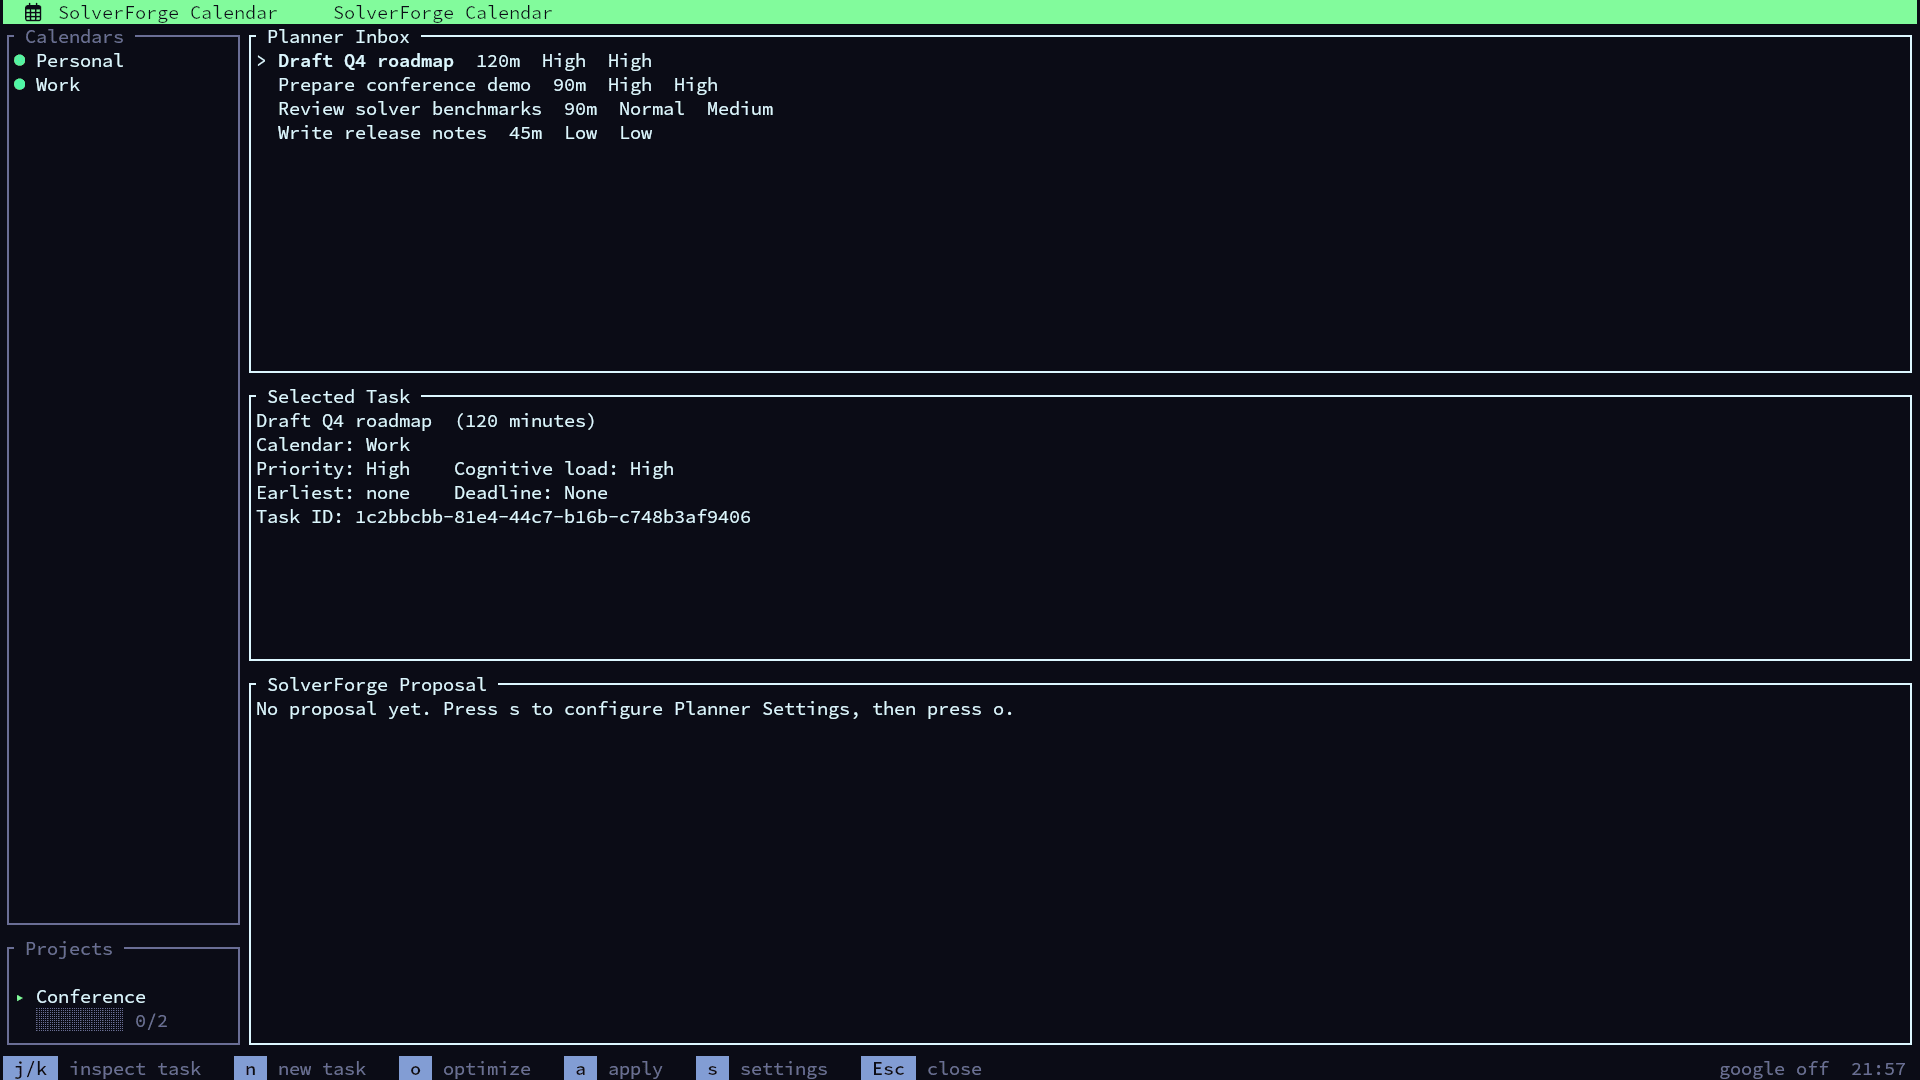
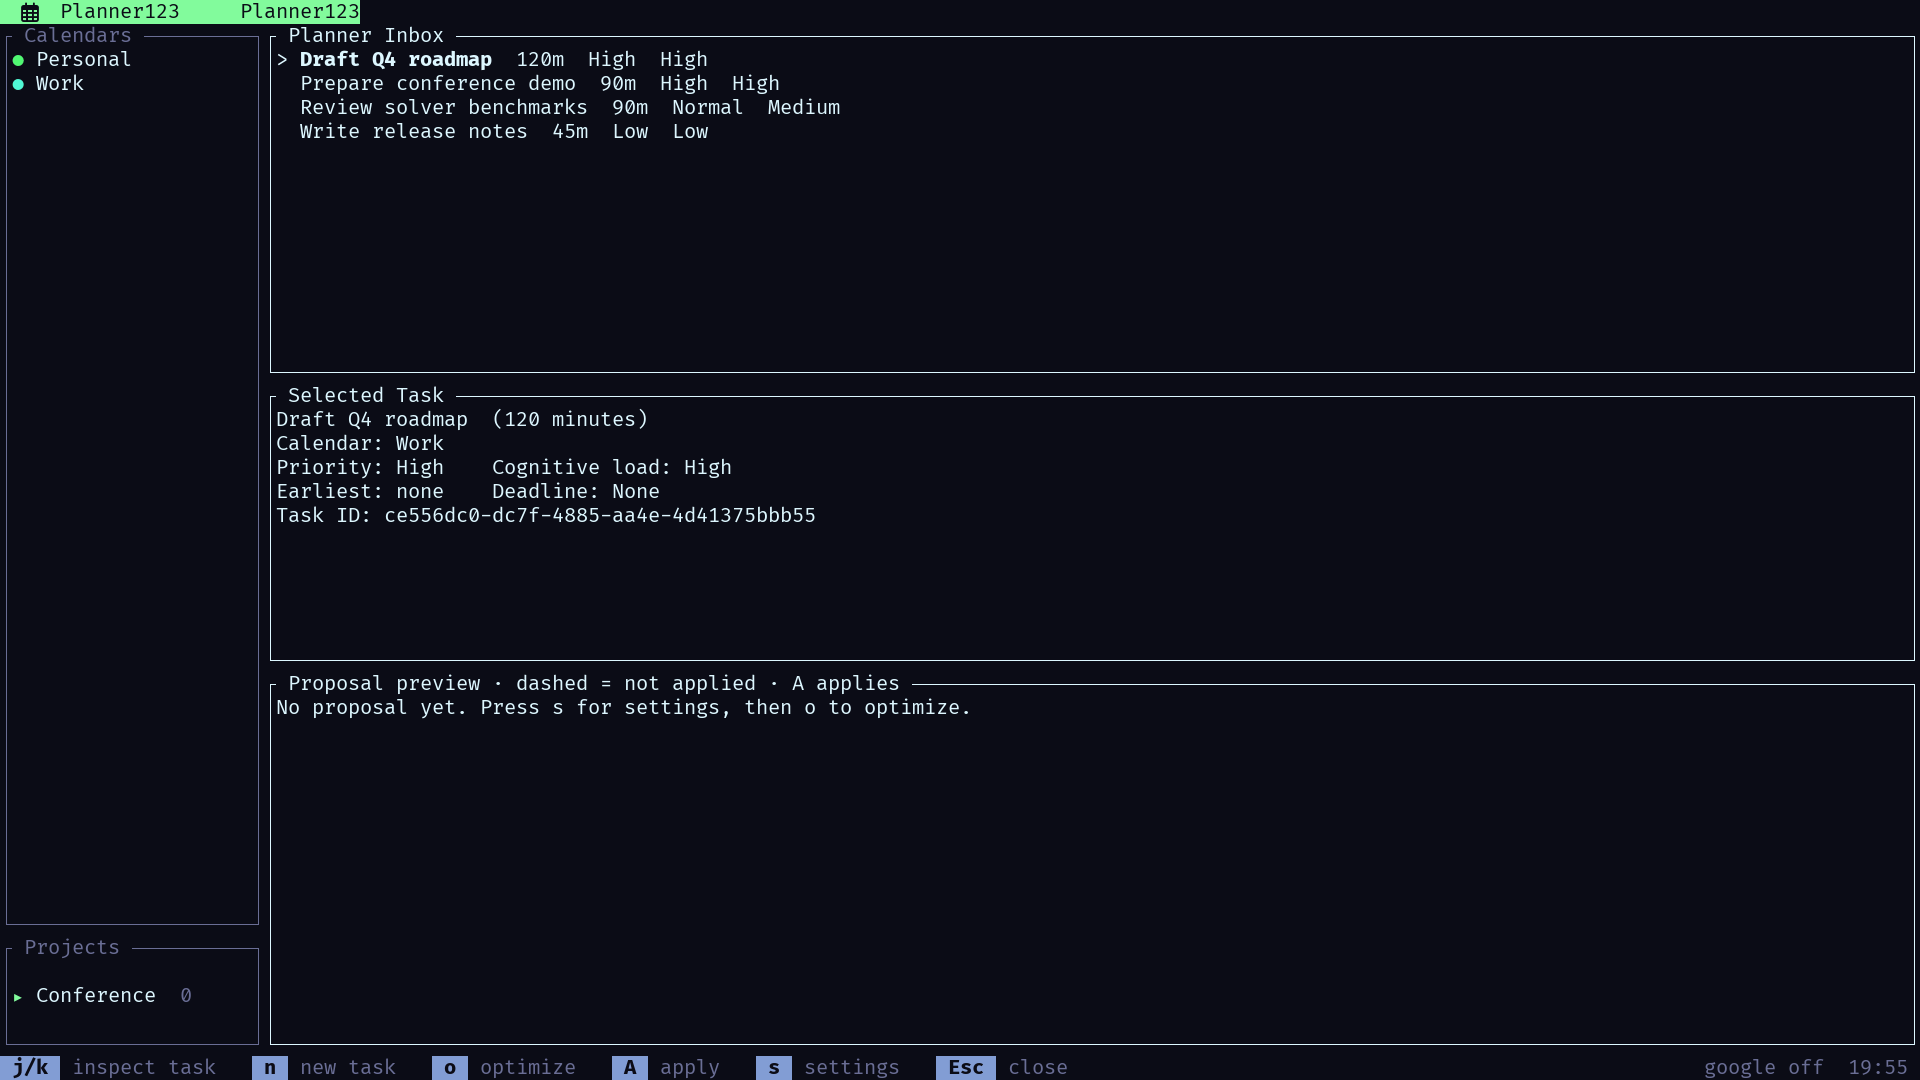
docs(readme): retake the screenshots on the current release
The five README screenshots predated the Planner123 rename, the effects and
the proposal preview: the header still read "SolverForge Calendar" and the
proposal was a plain list. They are retaken from v0.6.12 at the same
1920x1080 (160x45 cells), headless, on a seeded demo calendar: month, week,
help, planner inbox, and a real optimizer proposal drawn as ghosts on the
week grid.

diff --git a/docs/keymap-consolidation.md b/docs/keymap-consolidation.md
@@ -139,9 +139,9 @@ Consequences, in the plainest terms:
 
 `build_help_lines()` emits ~90 rendered rows into `centered_rect(70, 85, …)`:
 ~40 usable rows on a 50-row terminal, ~22 on a 24-row terminal. The published
-screenshot (`assets/screenshot-help.png`) shows exactly this — GLOBAL, MONTH,
-WEEK/DAY and one row of AGENDA, and the remaining eight sections are below the
-fold. Reading the cheat sheet requires the cheat sheet's own keys.
+screenshot (`assets/screenshot-help.png`, 160×45) shows exactly this — MONTH
+VIEW, GLOBAL, WEEK VIEW and the top of DAY VIEW, and every later section is
+below the fold. Reading the cheat sheet requires the cheat sheet's own keys.
 `help_scroll` is also never reset when the overlay is reopened
 (`src/app/state.rs:224` — set once at startup).
 
